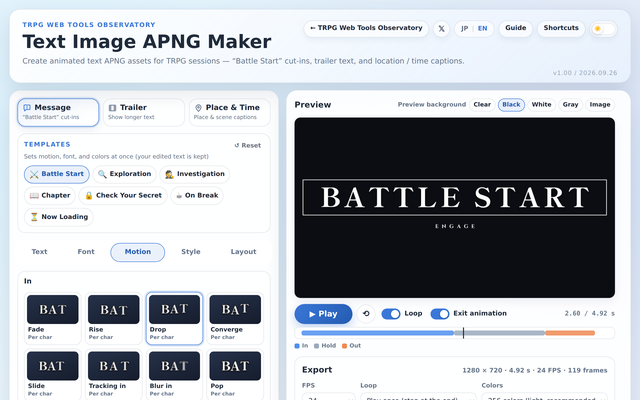
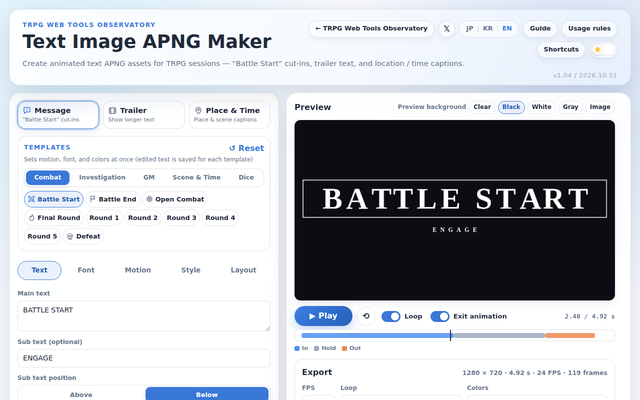
text-apng-maker: public release on the portal (#73)
- Portal: 文字画像APNGメーカー is 使用可能 and listed first, before 背景モーションメーカー; release card text and a fresh preview image; the spacer placeholder card is removed
- Changelog: the release entry (2026/10/01, v1.04 公開) is shown
- Tool and terms pages: closed-test noindex removed

Claude-Session: https://claude.ai/code/session_013hWfJet5i31SpNDXtNyTfa

diff --git a/changelog.html b/changelog.html
@@ -91,7 +91,6 @@
     </section>
 
     <section class="portal-info-section" aria-label="Changelog">
-      <!-- 文字画像APNGメーカーはクローズドテスト中のため非表示。一般公開するときにこのコメントを外す
       <article class="portal-info-card release-item">
         <p class="release-date">2026/10/01</p>
         <h2>文字画像APNGメーカー v1.04 公開</h2>
@@ -112,7 +111,6 @@
           <li>生成した画像の利用ルール（かんたん版）と利用規約（詳細版）を用意しました。書き出し結果からクレジット表記をコピーできます。</li>
         </ul>
       </article>
-      -->
 
       <article class="portal-info-card release-item">
         <p class="release-date">2026/09/14</p>

diff --git a/tools/text-apng-maker/index.html b/tools/text-apng-maker/index.html
@@ -5,8 +5,6 @@
 
   <meta charset="utf-8" />
   <meta name="viewport" content="width=device-width, initial-scale=1" />
-  <!-- クローズドテスト中は検索エンジンに載せない（一般公開するときに外す） -->
-  <meta name="robots" content="noindex, nofollow" />
   <title>文字画像APNGメーカー｜TRPG WEBツール観測所</title>
   <meta name="description" content="「戦闘開始」のカットイン、トレイラーの文章演出、場所・時間のテロップなど、TRPGで使える文字アニメーションのAPNG素材をブラウザだけで作成できるツールです。" />
   <link rel="icon" href="../../assets/img/kuma_icon.png?v=20260910" type="image/png" />

diff --git a/tools/text-apng-maker/terms.html b/tools/text-apng-maker/terms.html
@@ -5,8 +5,6 @@
 
   <meta charset="utf-8" />
   <meta name="viewport" content="width=device-width, initial-scale=1" />
-  <!-- クローズドテスト中は検索エンジンに載せない（一般公開するときに外す） -->
-  <meta name="robots" content="noindex, nofollow" />
   <title>利用規約｜文字画像APNGメーカー｜TRPG WEBツール観測所</title>
   <meta name="description" content="文字画像APNGメーカーで生成したAPNG画像の利用ルール（かんたん版）と利用規約（詳細版）です。" />
   <link rel="icon" href="../../assets/img/kuma_icon.png?v=20260910" type="image/png" />
